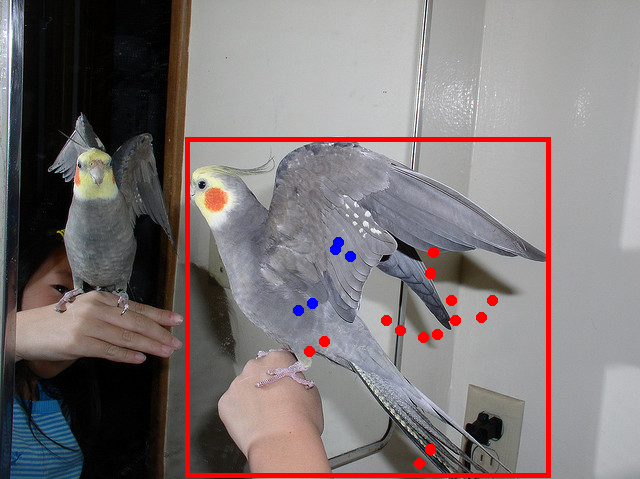
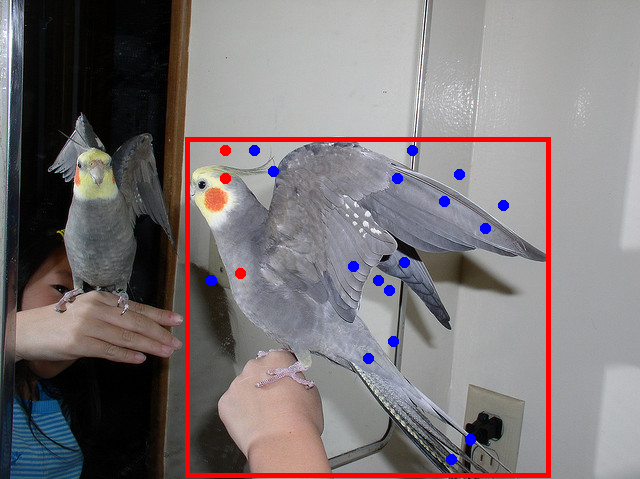
fix: point generate percentage

diff --git a/ntu_final_project/point_generator.py b/ntu_final_project/point_generator.py
@@ -84,7 +84,17 @@ class PointGenerator:
             outside_points.append([x_out + x1, y_out + y1])
 
         all_points = inside_points + outside_points
-        percent_pts = [[int(x / W * 100), int(y / H * 100)] for x, y in all_points]
+        # 將點轉為 bbox 內的相對百分比 [0~100]
+        bbox_w = x2 - x1
+        bbox_h = y2 - y1
+        percent_pts = [
+            [
+                int((x - x1) / bbox_w * 100),
+                int((y - y1) / bbox_h * 100)
+            ]
+            for x, y in all_points
+        ]
+
         vis_save_path = 'ntu_final_project/output_edge_points_vis.png'
         if vis_save_path:
             vis_img = image.copy()

diff --git a/ntu_final_project/config.py b/ntu_final_project/config.py
@@ -1,1 +1,1 @@
-URL_BASE='https://fa42-149-7-4-150.ngrok-free.app'
+URL_BASE='https://7db9-149-7-4-150.ngrok-free.app'
